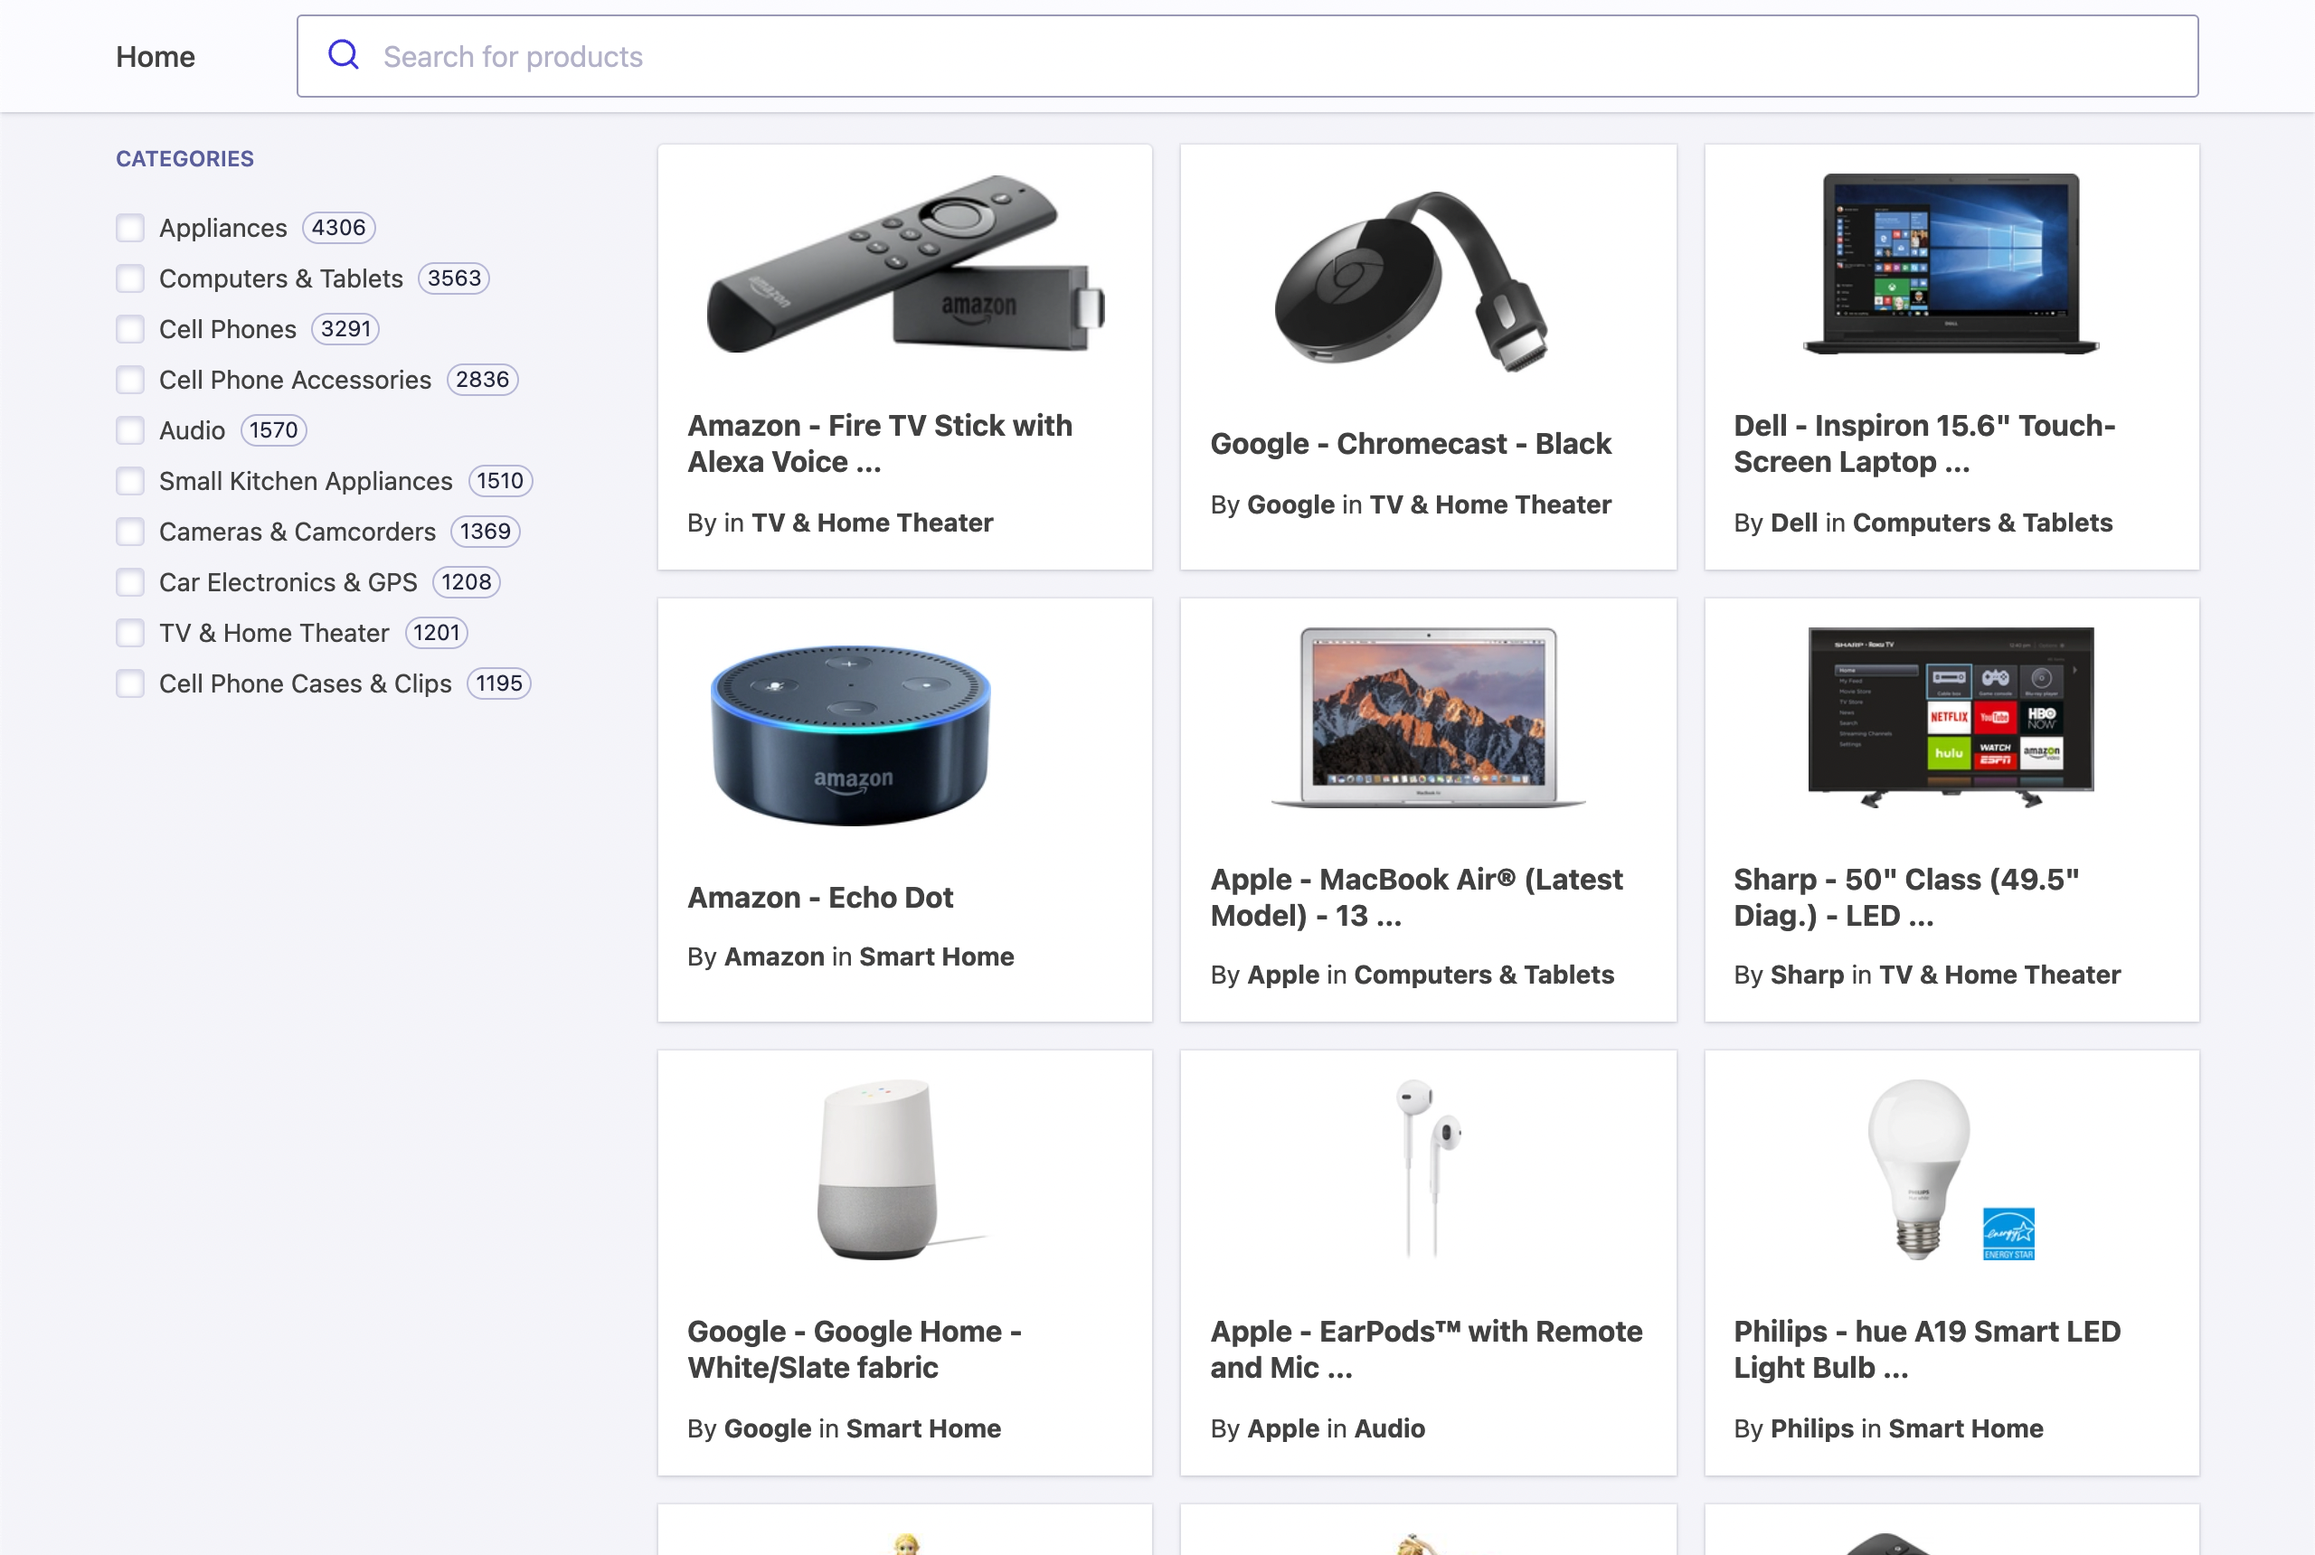
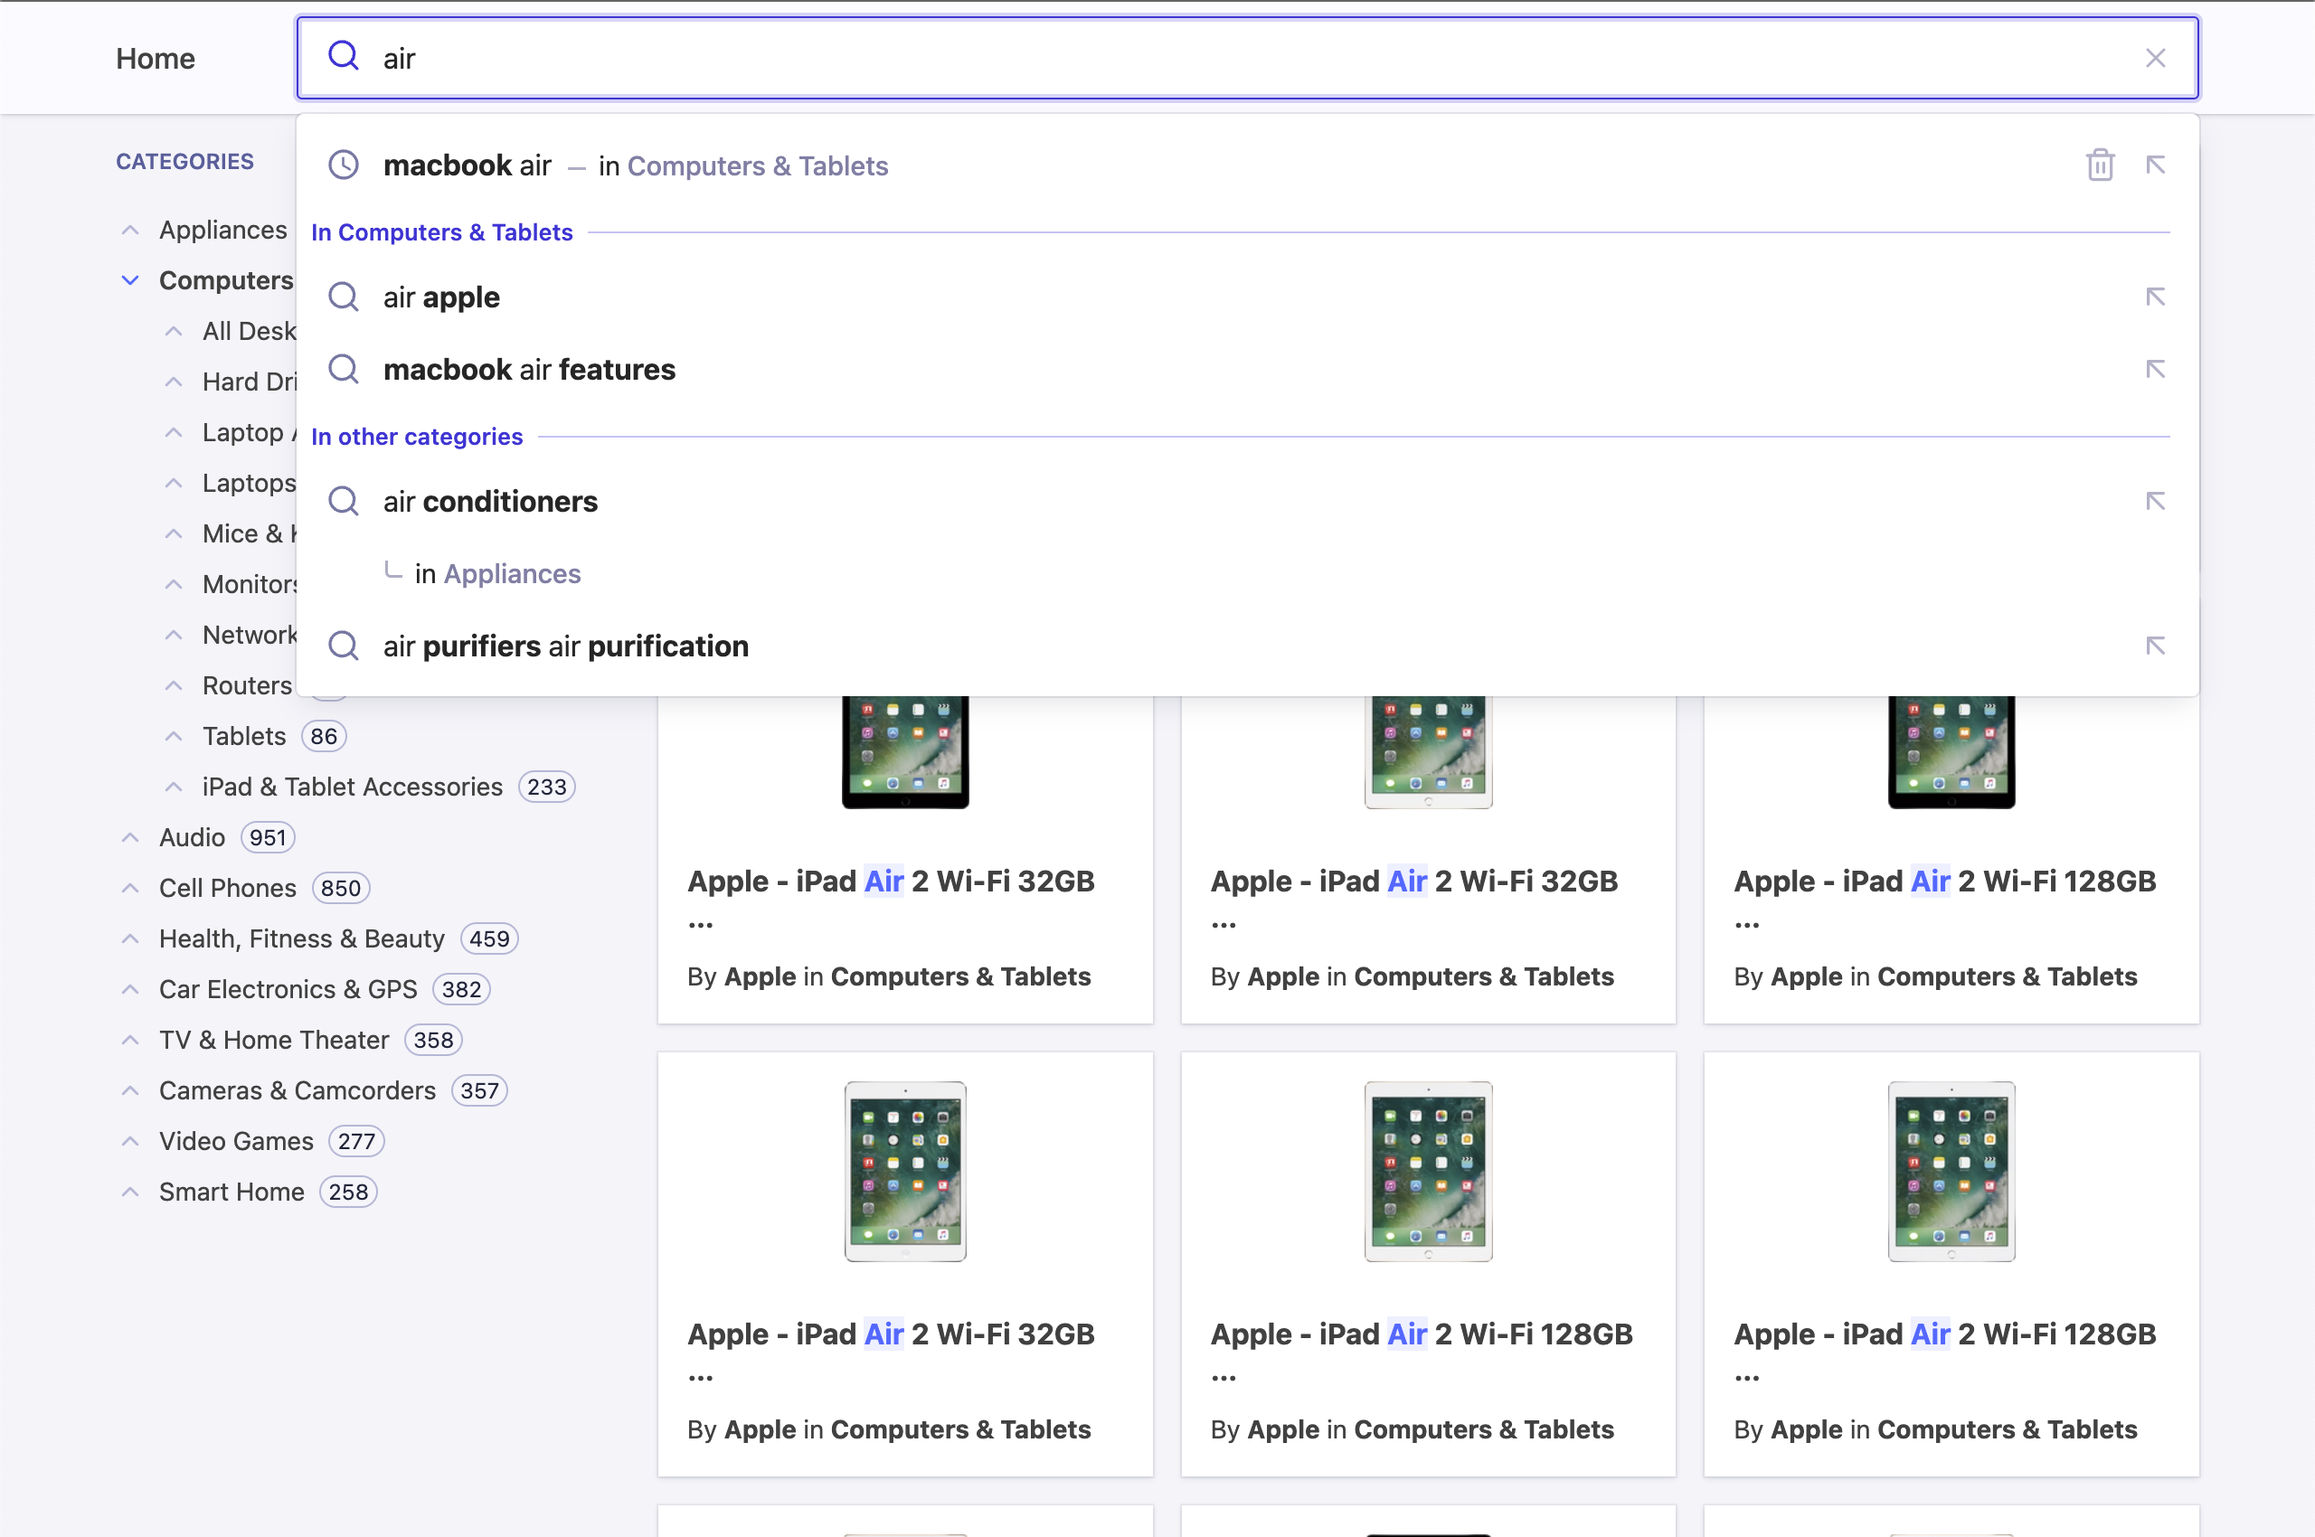
replace refinementList with hierarchicalMenu

diff --git a/examples/vue-instantsearch/src/App.vue b/examples/vue-instantsearch/src/App.vue
@@ -23,7 +23,12 @@
         <div>
           <ais-panel>
             <template v-slot:header>Categories</template>
-            <ais-refinement-list attribute="categories" />
+            <ais-hierarchical-menu
+              :attributes="[
+                'hierarchicalCategories.lvl0',
+                'hierarchicalCategories.lvl1',
+              ]"
+            ></ais-hierarchical-menu>
           </ais-panel>
         </div>
         <div>
@@ -68,6 +73,7 @@ import { createLocalStorageRecentSearchesPlugin } from '@algolia/autocomplete-pl
 import '@algolia/autocomplete-theme-classic';
 
 const INSTANT_SEARCH_INDEX_NAME = 'instant_search';
+const INSTANT_SEARCH_HIERARCHICAL_ATTRIBUTE = 'hierarchicalCategories.lvl0';
 
 const searchClient = algoliasearch(
   'latency',
@@ -81,15 +87,28 @@ function autocompleteMiddleware({ instantSearchInstance }) {
     const indexRenderState =
       instantSearchInstance.renderState[INSTANT_SEARCH_INDEX_NAME];
 
-    const refinedCategory = indexRenderState?.refinementList?.categories?.items?.find(
-      ({ isRefined }) => isRefined
-    );
+    const refinedCategory = indexRenderState?.hierarchicalMenu?.[
+      INSTANT_SEARCH_HIERARCHICAL_ATTRIBUTE
+    ]?.items?.find(({ isRefined }) => isRefined);
 
     return refinedCategory?.value;
   }
 
-  function setInstantSearchUiState({ query, categories }) {
-    const refinementList = categories ? { refinementList: { categories } } : {};
+  function setInstantSearchUiState({ query, category, resetCategory = false }) {
+    let hierarchicalMenu;
+    if (resetCategory) {
+      hierarchicalMenu = {
+        hierarchicalMenu: { [INSTANT_SEARCH_HIERARCHICAL_ATTRIBUTE]: [] },
+      };
+    } else if (!category) {
+      hierarchicalMenu = {};
+    } else {
+      hierarchicalMenu = {
+        hierarchicalMenu: {
+          [INSTANT_SEARCH_HIERARCHICAL_ATTRIBUTE]: [category],
+        },
+      };
+    }
 
     instantSearchInstance.setUiState((uiState) => ({
       ...uiState,
@@ -97,7 +116,7 @@ function autocompleteMiddleware({ instantSearchInstance }) {
         ...uiState[INSTANT_SEARCH_INDEX_NAME],
         page: 1,
         query,
-        ...refinementList,
+        ...hierarchicalMenu,
       },
     }));
   }
@@ -111,7 +130,7 @@ function autocompleteMiddleware({ instantSearchInstance }) {
         onSelect({ item }) {
           setInstantSearchUiState({
             query: item.label,
-            categories: item.category ? [item.category] : [],
+            category: item.category,
           });
         },
       };
@@ -139,7 +158,7 @@ function autocompleteMiddleware({ instantSearchInstance }) {
         onSelect({ item }) {
           setInstantSearchUiState({
             query: item.query,
-            categories: [currentCategory],
+            category: currentCategory,
           });
         },
         getItems(params) {
@@ -193,7 +212,7 @@ function autocompleteMiddleware({ instantSearchInstance }) {
       'instant_search',
       'facets',
       'exact_matches',
-      'categories',
+      INSTANT_SEARCH_HIERARCHICAL_ATTRIBUTE,
     ],
     transformSource({ source }) {
       const currentCategory = getInstantSearchCurrentCategory();
@@ -204,9 +223,7 @@ function autocompleteMiddleware({ instantSearchInstance }) {
         onSelect({ item }) {
           setInstantSearchUiState({
             query: item.query,
-            categories: item.__autocomplete_qsCategory
-              ? [item.__autocomplete_qsCategory]
-              : [],
+            category: item.__autocomplete_qsCategory,
           });
         },
         getItems(params) {
@@ -257,7 +274,7 @@ function autocompleteMiddleware({ instantSearchInstance }) {
           setInstantSearchUiState({ query: state.query });
         },
         onReset() {
-          setInstantSearchUiState({ query: '', categories: [] });
+          setInstantSearchUiState({ query: '', resetCategory: true });
         },
         onStateChange({ prevState, state }) {
           if (prevState.query !== state.query) {
